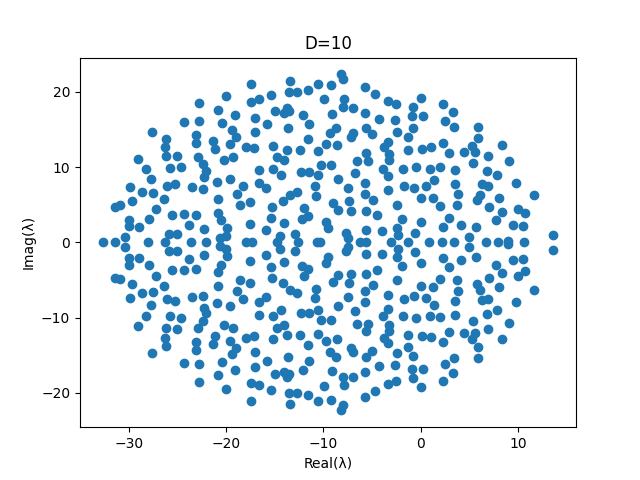
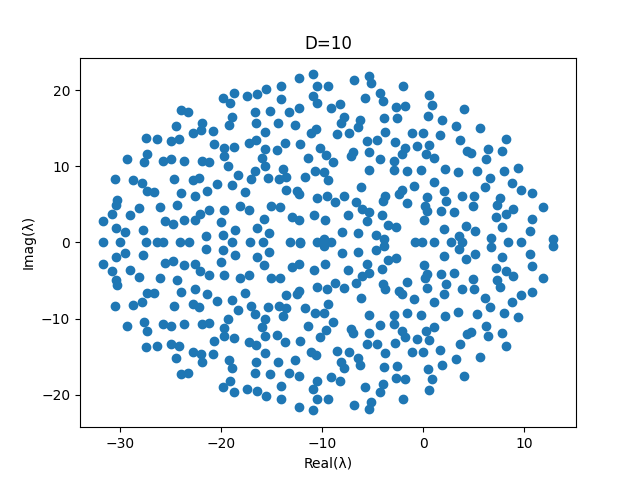
q3

diff --git a/q3/Answer.md b/q3/Answer.md
@@ -13,5 +13,5 @@ eigenvalues, but the precise effect will depend on the correlation structure. In
 structure of the matrix's components may result in a shift in the eigenvalues' distribution. For most correlations it
 will just stay an elliptical cloud .
 
-In case of the example mentioned we see that get more concentrated along the real axis and as D increases, this
-concentration reaches a level where it almost appears as a straight vertical line parallel to imaginary axis. 
+In case of the example mentioned of skew-symmetric we see that get more concentrated along the real axis almost forming
+an X shape centered at Real = 0 since the diagonal entries have to be 0 for this.  
